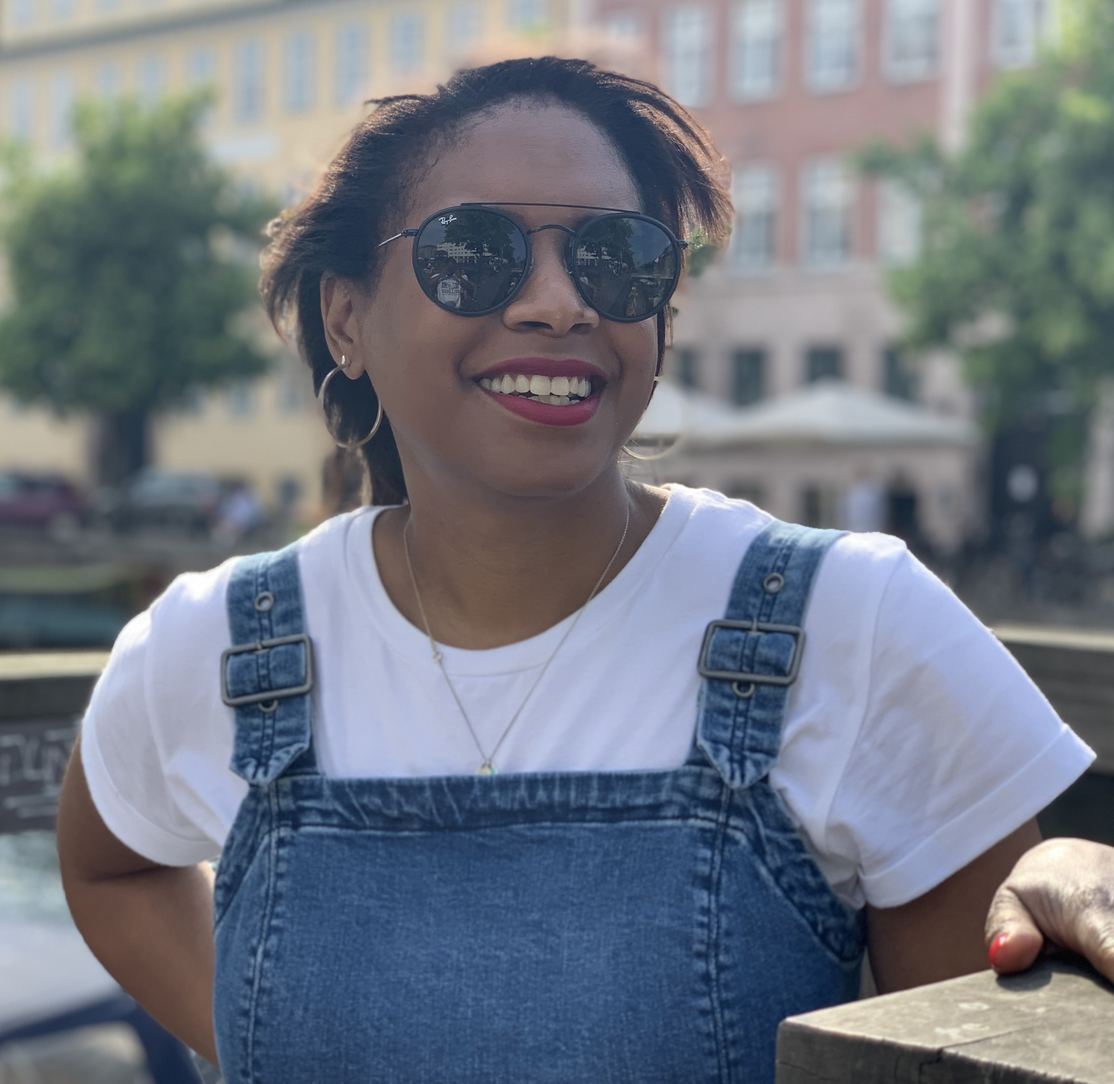
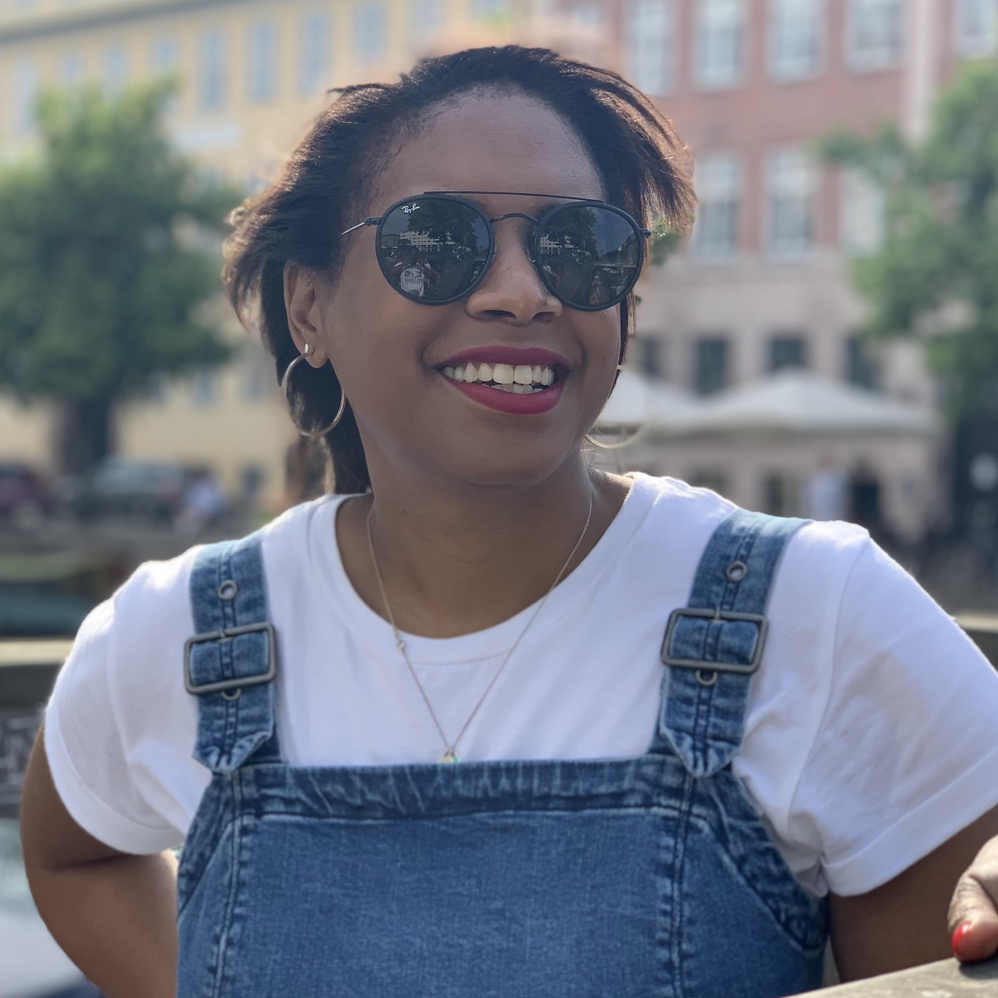
Updated layout issues on larger screen sizes. Changed image on MUFC blog post

diff --git a/term1/assignment2/css/homepage.css b/term1/assignment2/css/homepage.css
@@ -6,7 +6,7 @@ body{
 }
 
 
-section{
+section, aside {
     display: flex;
     flex-direction: column;
     
@@ -16,6 +16,8 @@ section{
     padding-right: 5vh;
     
     align-items: center;
+
+    
 }
 
 h1 {
@@ -31,8 +33,8 @@ h1 {
     align-items:flex-start;
 }
 
-.banner{
-    position:relative ;
+#banner{
+    position: static;
     z-index: -1;
     border: 0;
     margin: 0;
@@ -44,14 +46,14 @@ h1 {
 
 
 
-img {
+#profile {
    position: absolute;
       
     margin: 2vh;
     border: 1px solid black;
 
-    max-width: 18vh;
-    border-radius: 100px;
+    width: 18vh;
+    border-radius: 150px;
 }
 
 h2 {
@@ -59,13 +61,20 @@ h2 {
     margin-top: 4vh;
 }
 
-section:last-of-type {
+/*use section:last-of-type to target the paragraph before social media icons*/
+
+section:last-of-type{
+    max-width: 850px;
+ }
+
+
+aside {
     display: flex;
     flex-direction: row;
     justify-content: space-around;
     position: relative;
+    margin-top: 5vh;
     
-
     
     background-color: rgba(91, 109, 127, 0.5);
     min-height: 10vh;
@@ -81,7 +90,7 @@ section:last-of-type {
     position: relative;
     width: 5vh;
     height: 5vh;
-    margin: 0;
+    margin: 0 2vw;
     border: 0;
     right: 0;
 }
@@ -94,22 +103,19 @@ section:last-of-type {
 
 .tooltip .show-number{
     visibility: hidden;
-    width: 120px;
+    width: 90px;
     background-color:rgba(64, 195, 81, 1);
     color: white;
     text-align: center;
     border: 2px solid white;
     border-radius: 6px;
-    padding: 9px;
+    padding: 4px;
     z-index: 1;
     position: absolute;
-    top: 25%;
-    left: 1px;
     
-    /* USE THESE SETTINGS FOR LARGER SCREENS
-    position: absolute;
-    top: 25%;
-    */
+    right: 6px;
+    font-size: small;
+
 }
 
 .tooltip:hover .show-number {
@@ -119,10 +125,10 @@ section:last-of-type {
 /*REQUIRED TO SHOW THE PROFILE IMAGE OFF-CENTRE 
 ON SMALLER DEVICES*/
 @media only screen and (max-width: 399px){
-    .banner{
+    #banner{
        right: 0;
     }
-    img {
+    #profile {
        right: 45vw;
     }
 
@@ -131,17 +137,23 @@ ON SMALLER DEVICES*/
 }
 
 
-@media only screen and (min-width: 400px){
-    .banner{
+@media only screen and (min-width: 400px) and (max-width: 849px){
+    #banner{
         right: 0;
      }
-     img {
-        right: 45vw;
+     #profile {
+        right: 55vw;
+        border-width: 3px;
      }
 
      h1{
         margin-bottom: 2vh;
     }
+
+    aside {
+        font-size: 1.5rem;
+       
+     }
 
 
 }
@@ -152,7 +164,27 @@ ON SMALLER DEVICES*/
         margin-bottom: 2vh;
     }
 
+    #profile {
+        right: 55vw;
+        border-width: 3px;
+        width: 20%;
+     }
+
+     
 
 
+     aside {
+        font-size: 1.5rem;
+        justify-content: center;
+     }
 
+
+     .tooltip .show-number{
+        position: relative;
+        width: 120px;
+        bottom: 15px;
+        font-size: small ;
+        padding: 9px;
+     }
+    
 }

diff --git a/term1/assignment2/html/index.html b/term1/assignment2/html/index.html
@@ -25,11 +25,11 @@
 <section>
     <h1>Kelly De Gannes</h1>
     <div ID = "header-section">
-        <img class = "banner" src="/images/test-image1.jpg" alt="panoramic banner image">
+        <img id = "banner" src="/images/test-image1.jpg" alt="panoramic banner image">
    
     
     
-    <img src="/images/profile-photo.jpg" alt="Photo of Kelly">
+    <img id="profile" src="/images/profile-photo-2.jpg" alt="Photo of Kelly">
    
 </div>
    
@@ -41,35 +41,29 @@
     <p> This site has some info about my background, personally and professionally. It also showcases my abilities in web design and development!</p>
 </section>
 
-<section>
+<aside>
      <!--Space for social links, copywrite etc-->
-     <div class= "social-media-banner">Connect with me:</div>
+     <div>Connect with me:</div>
       
-      <span class= "social-media-banner"><a href = "www.linkedin.com/in/kelly-de-gannes-89b120129"><img class="logo" src ="/images/logos/icons8-linkedin-48.png"></a></span> 
+      <div><a href = "www.linkedin.com/in/kelly-de-gannes-89b120129"><img class="logo" src ="/images/logos/icons8-linkedin-48.png"></a></div> 
     
      
     
-     <div class= "social-media-banner"><a href ="https://github.com/krd81"><img class="logo" src ="/images/logos/icons8-github-64.png"></a></div> 
+     <div><a href ="https://github.com/krd81"><img class="logo" src ="/images/logos/icons8-github-64.png"></a></div> 
      
      
-     <div class= "social-media-banner"><a href ="mailto:kelly.degannes@gmail.com"><img class="logo" src ="/images/logos/icons8-email-64.png"></a></div> 
+     <div><a href ="mailto:kelly.degannes@gmail.com"><img class="logo" src ="/images/logos/icons8-email-64.png"></a></div> 
     
-    <div class= "social-media-banner"><a class = "tooltip"><img class="logo" src ="/images/logos/icons8-whatsapp-48.png">
+    <div><a class = "tooltip"><img class="logo" src ="/images/logos/icons8-whatsapp-48.png">
             <span class="show-number">0481 143 752</span> 
         </a>
     </div>
      
-      <!--
-     <div>a<img class="logo" src="/images/logos/icons8-linkedin-48.png" alt=""></div>
-     <div>b<img class="logo" src="/images/logos/icons8-github-64.png" alt=""></div>
-     <div>c<img class="logo" src="" alt=""></div>
-     <div><img class="logo" src="" alt=""></div>
-    -->
 
-</section>
+</aside>
 
 <footer>
-    <div>&copy 2023, acknowledgements etc</div>
+    <div>&copy Kelly De Gannes 2023</div>
 </footer>
 </body>
 </html>

diff --git a/term1/assignment2/html/blogs.html b/term1/assignment2/html/blogs.html
@@ -33,7 +33,7 @@
     <article>
     <section class = "blog-post" id = "blog-1">
         <div class="image">
-            <img src="/images/blog-images/Shirt.JPG" alt="football shirt image">
+            <img src="/images/blog-images/mufc-blog.jpg" alt="Casemiro vs Brighton">
         </div>
         <div>
             <h3 class="post-category">SPORT</h3>
@@ -138,7 +138,7 @@
     
 
     <footer>
-        <div>Copywrite 2023, acknowledgements etc</div>
+        <div>&copy Kelly De Gannes 2023/div>
     </footer>
 </body>
 </html>

diff --git a/term1/assignment2/css/style.css b/term1/assignment2/css/style.css
@@ -32,7 +32,7 @@ nav{
     min-height: 5vh;
     max-height: 10vh;
     padding: 0;
- 
+   
 }
 
 div{
@@ -82,7 +82,7 @@ img {
 }
 
 
-@media only screen and (min-width: 400px){
+@media only screen and (min-width: 400px) and (max-width: 849px){
     p, nav{
         font-size: 1.3rem;
     }
@@ -111,8 +111,12 @@ img {
 
 
     nav {
-        padding: 0 5vw;
-        align-self: stretch;
+       
+        justify-content: center;
+    }
+
+    nav>div {
+        margin: 0 15px;
     }
 
 }

diff --git a/term1/assignment2/css/career-history.css b/term1/assignment2/css/career-history.css
@@ -26,7 +26,7 @@ ulist{
 }
 
 
-@media only screen and (min-width: 400px){
+@media only screen and (min-width: 400px) and (max-width: 849px){
     section{        
         max-width: 650px;
     }

diff --git a/term1/assignment2/css/skills.css b/term1/assignment2/css/skills.css
@@ -100,7 +100,7 @@ footer{
 }
 
 
-@media only screen and (min-width: 400px){
+@media only screen and (min-width: 400px) and (max-width: 849px){
     .skills {
         min-width: 540px;
         

diff --git a/term1/assignment2/html/about-me.html b/term1/assignment2/html/about-me.html
@@ -46,7 +46,7 @@
     </section>
 
     <footer>
-        <div>Copywrite 2023, acknowledgements etc</div>
+        <div>&copy Kelly De Gannes 2023</div>
     </footer>
 </body>
 </html>

diff --git a/term1/assignment2/html/skills.html b/term1/assignment2/html/skills.html
@@ -85,7 +85,7 @@
     </section>
 
     <footer>
-        <div>&copy K De Gannes 2023, acknowledgements etc</div>
+        <div>&copy Kelly De Gannes 2023</div>
     </footer>
 
     

diff --git a/term1/assignment2/html/career-history.html b/term1/assignment2/html/career-history.html
@@ -41,7 +41,7 @@
 </section>
 
     <footer>
-        <div>Copywrite 2023, acknowledgements etc</div>
+        <div>&copy Kelly De Gannes 2023</div>
     </footer>
 </body>
 </html>

diff --git a/term1/assignment2/css/about-me.css b/term1/assignment2/css/about-me.css
@@ -40,7 +40,7 @@ figcaption{
 
 }
 
-@media only screen and (min-width: 400px){
+@media only screen and (min-width: 400px) and (max-width: 849px){
 h2 {
     font-size: 2rem
 }
